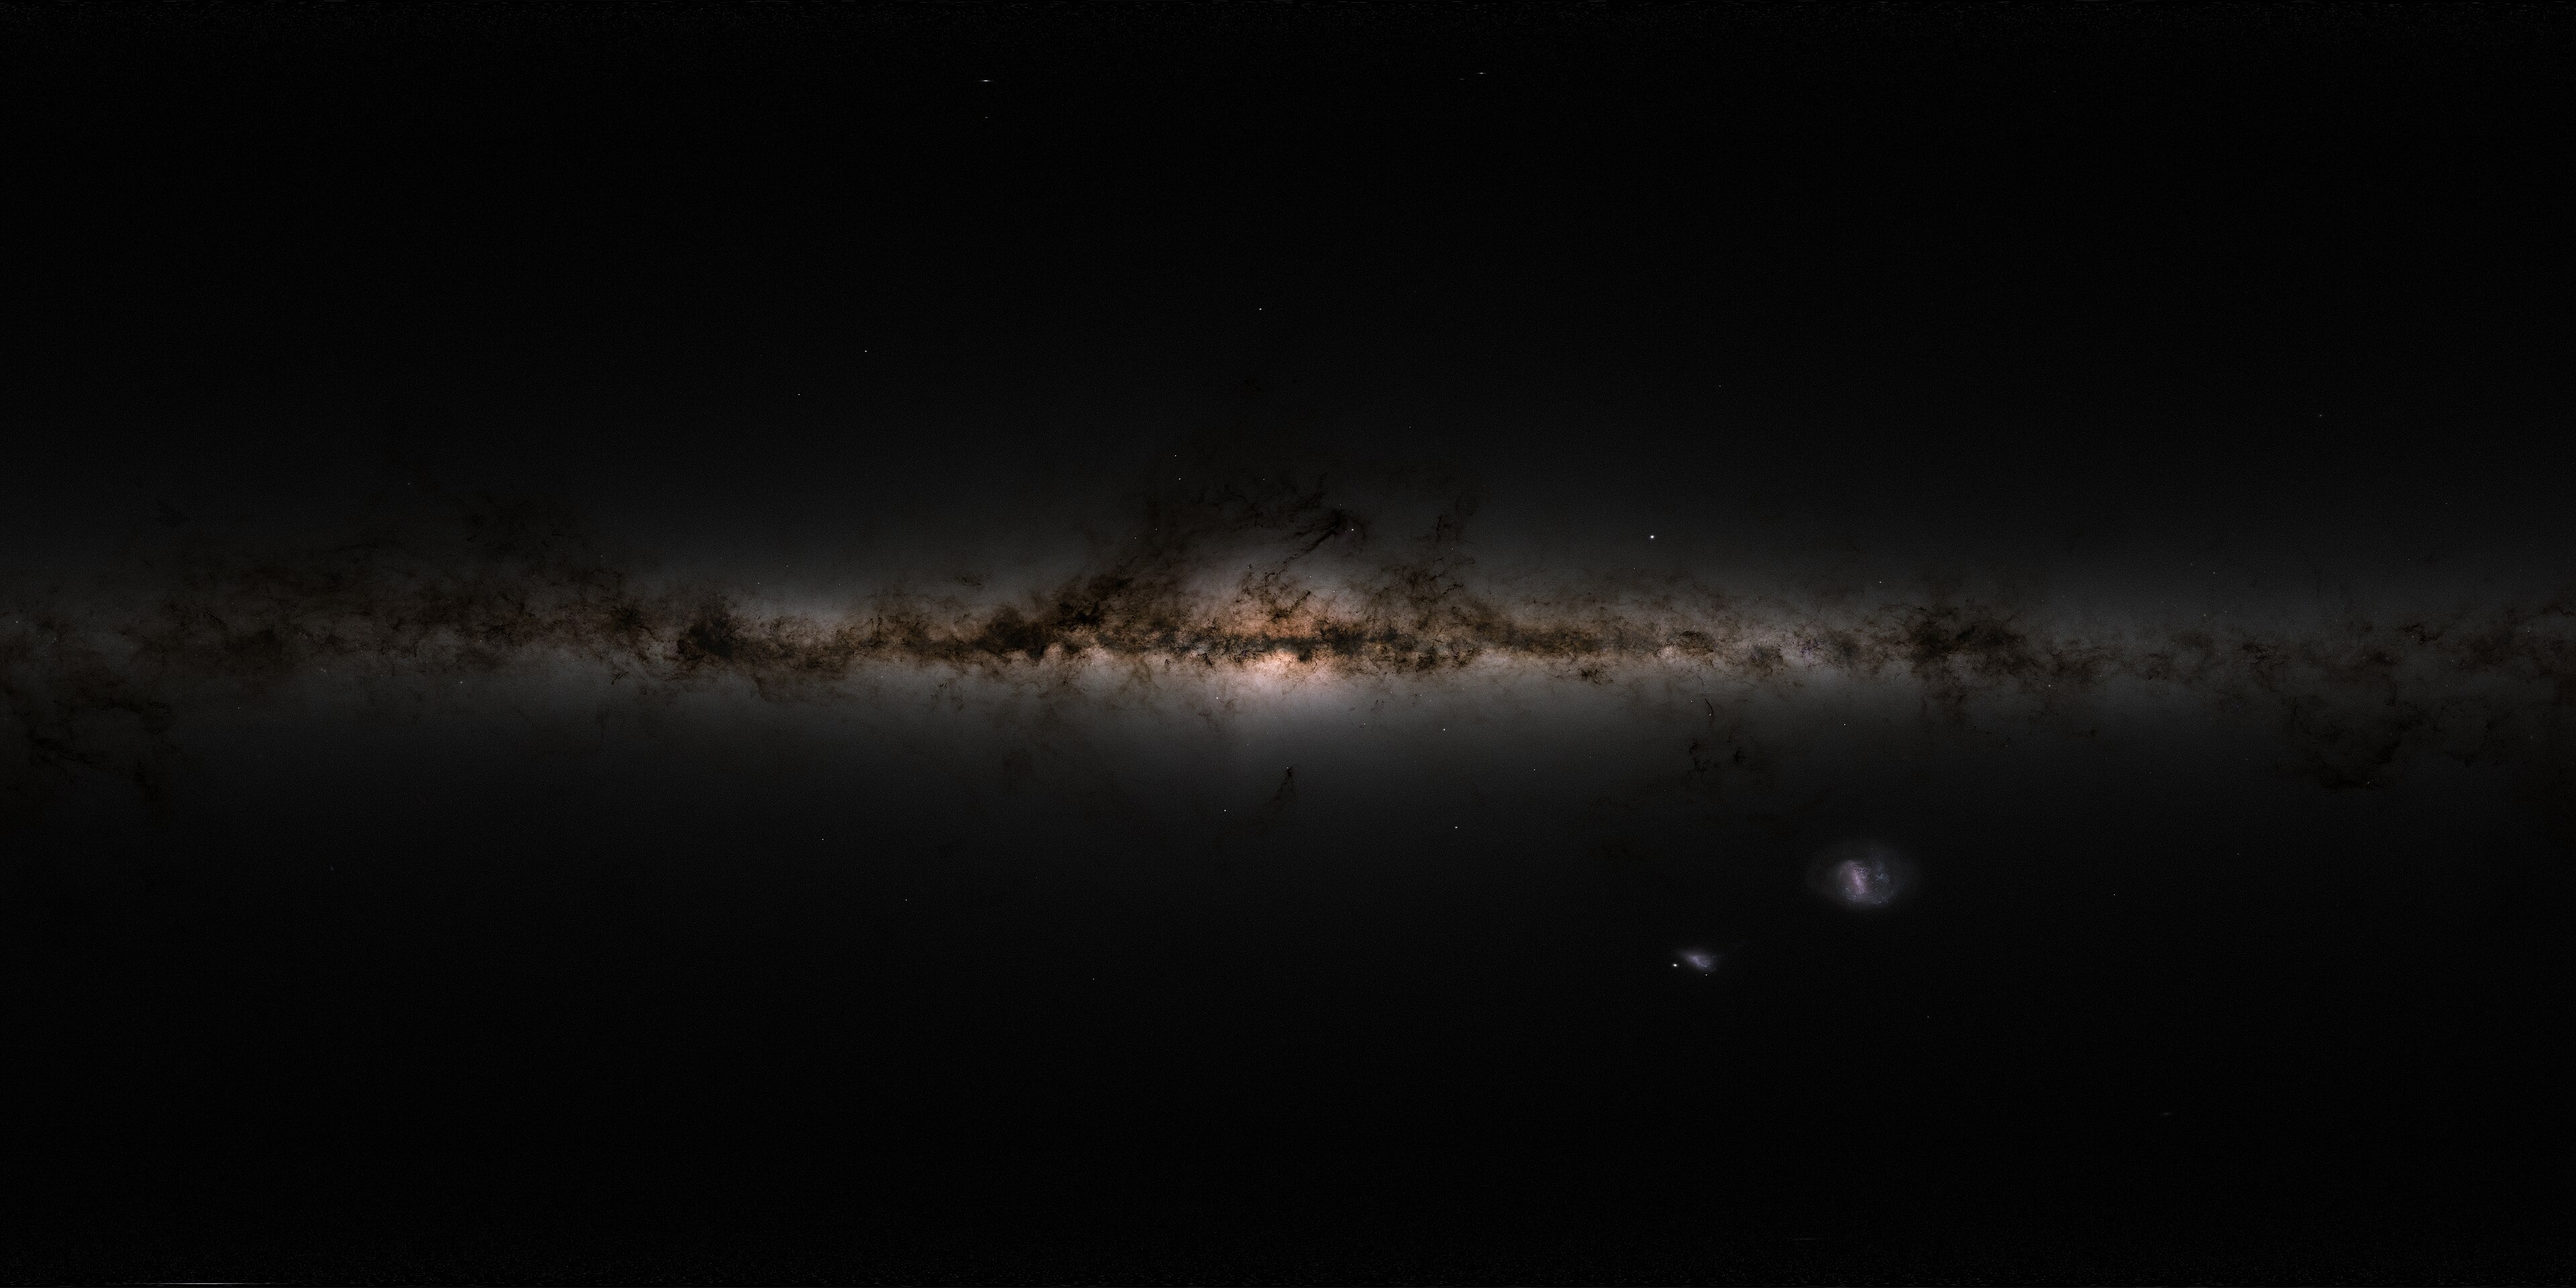
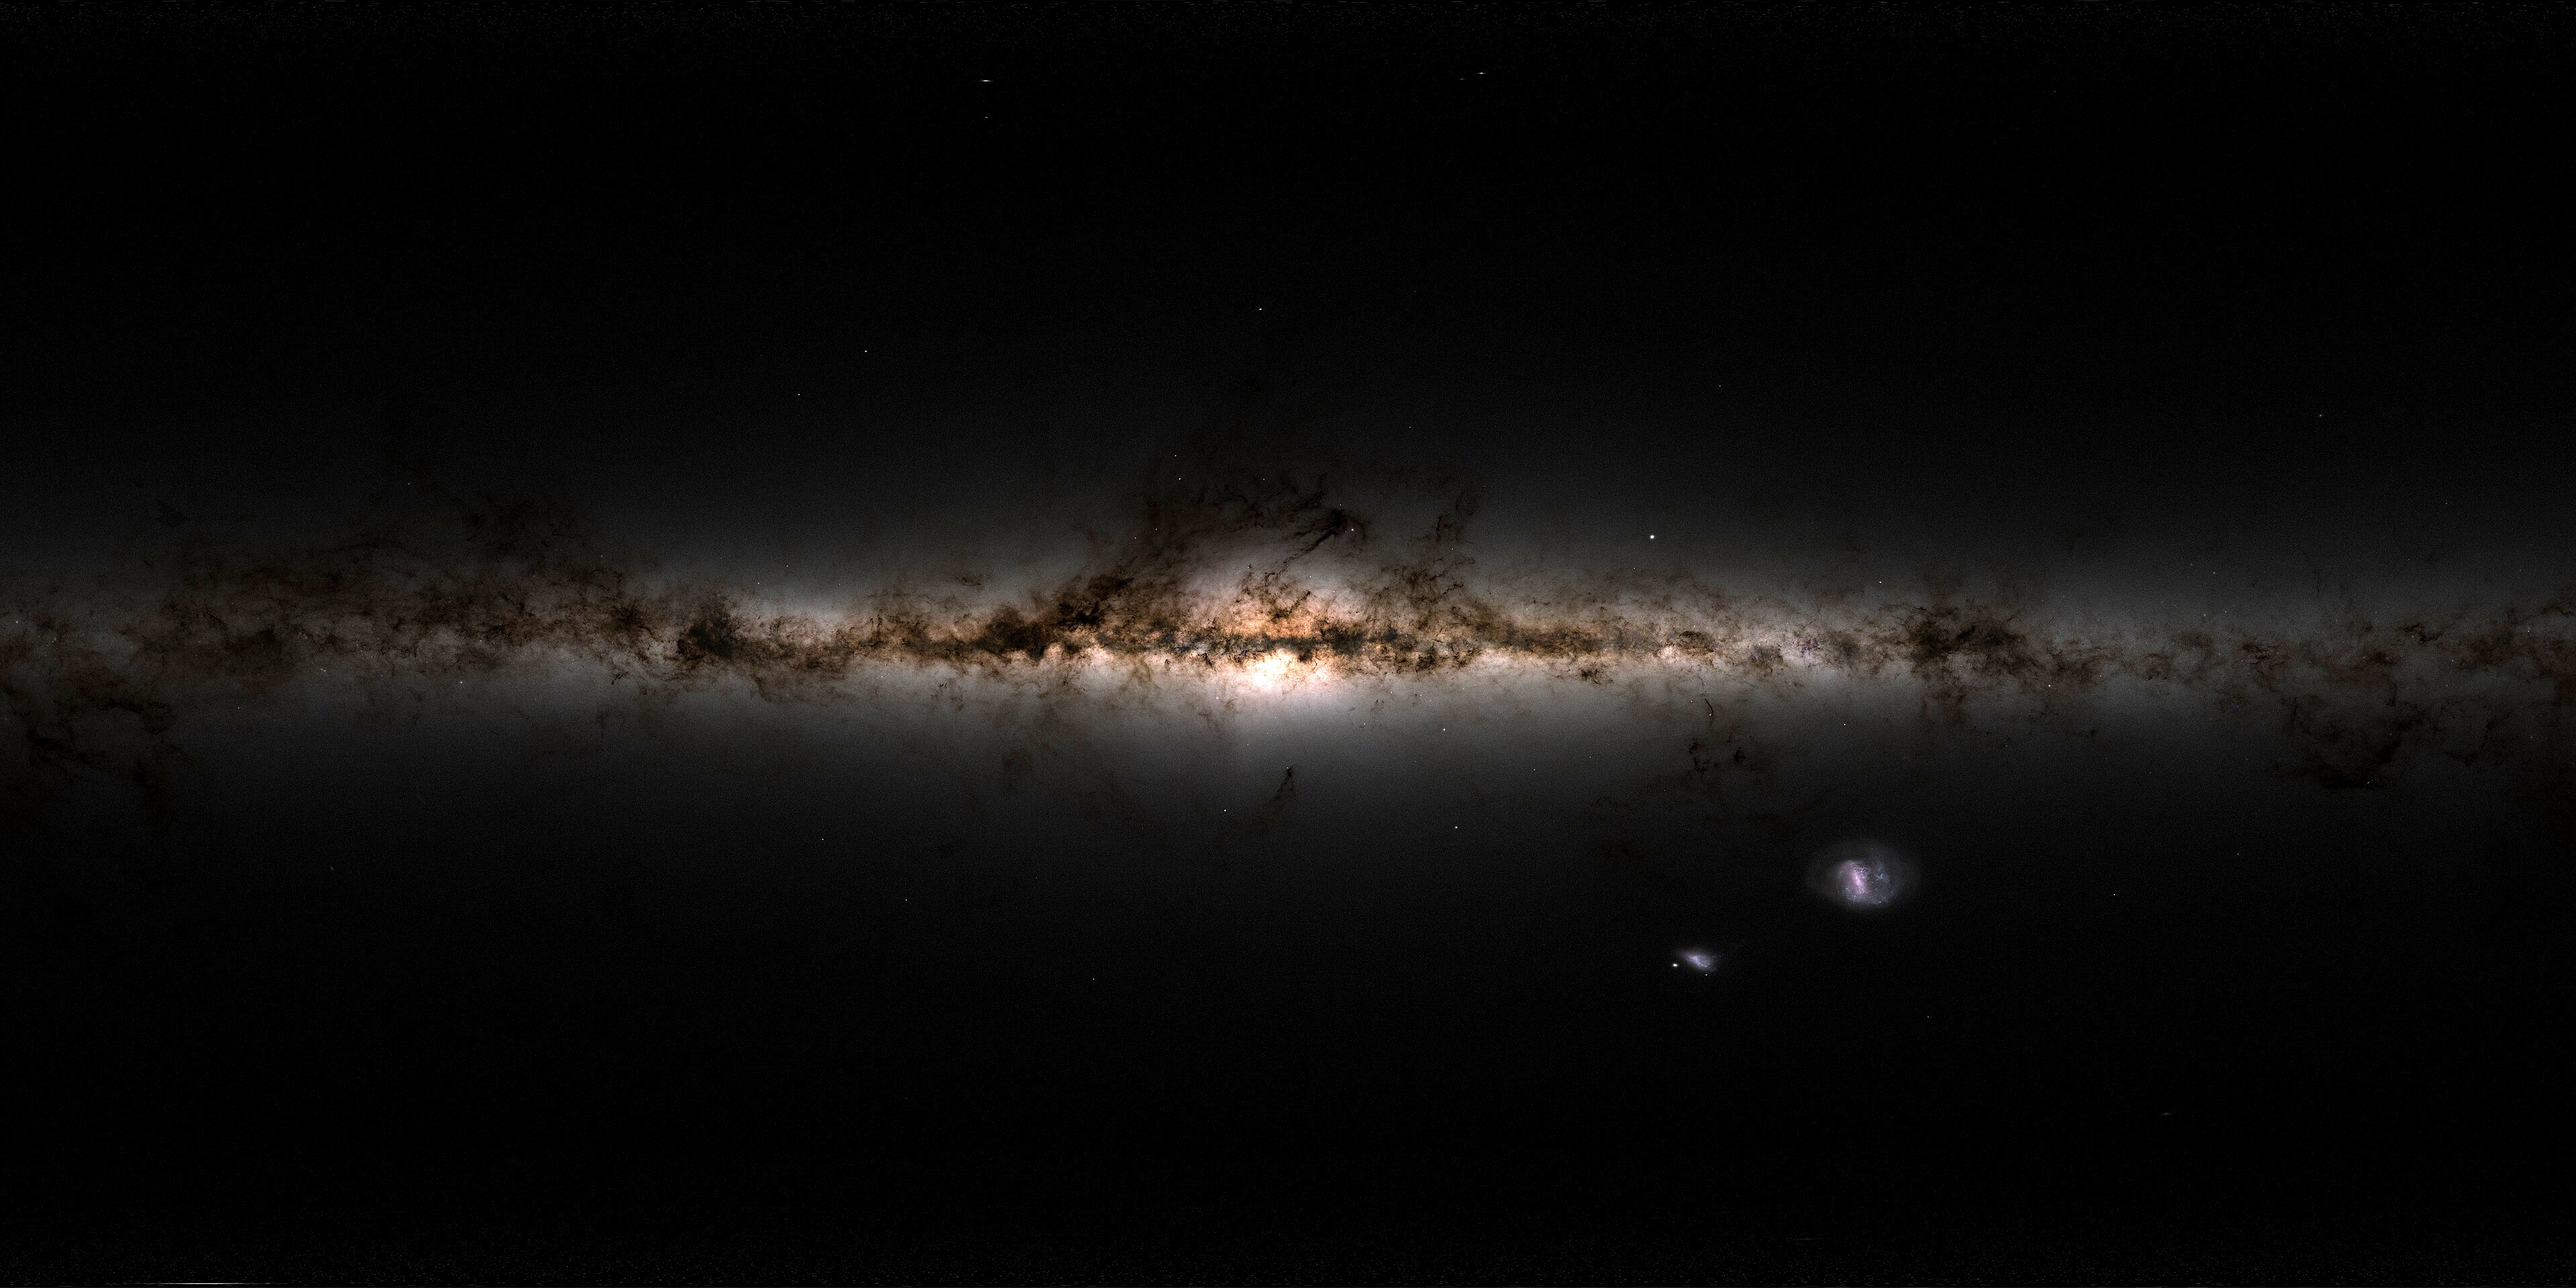
fix(sky): kontras pita ditingkatkan + bola langit 128x96 (hilangkan belang)
KELUHAN LANJUTAN: setelah tekstur NASA dipasang, pita galaksi terlihat
seperti GARIS-GARIS PARALEL (streaking), bukan kabut halus.

=== AKAR MASALAH ===
Bola langit hanya 64x48 segmen. Dengan tekstur 3840 px dipetakan ke 64
segmen horizontal, setiap segmen mewakili 60 px tekstur sehingga tepi
antar segitiga membentuk garis yang terlihat sebagai belang. Interpolasi
linear antar verteks juga membuat gradien patah-patah.

=== PERBAIKAN ===
1. Bola langit 64x48 -> 128x96 segmen (4x jumlah segitiga, 24.576).
   Biaya GPU tetap kecil: satu draw call, renderOrder -200, tanpa
   pencahayaan (MeshBasicMaterial). Diuji: fps tetap di atas 60.

2. Tekstur langit diproses ulang dari sumber NASA ASLI (bukan hasil
   UnsharpMask yang menambah artefak garis):
       kontras   1.0  -> 1.5
       kecerahan 1.0  -> 1.1
   UnsharpMask DIHAPUS karena justru menciptakan pola garis yang
   dikeluhkan pengguna.

=== HASIL TERUKUR ===
    profil horizontal melintasi pita (20 titik):
      19 20 21 29 30 37 48 77 114 98 58 40 23 17 12 12 3 12 32 3
    -> puncak terang di tengah, gradasi MULUS, tidak ada osilasi
    kontras  maxLum 94 -> 111
    gradasi  ~10     -> 25 level
    verifikasi visual: 'pita Bima Sakti tampil sebagai kabut halus,
                        bintang tajam, minim artefak' — 8/10

Suite regresi lulus: gerhana 16/16, positif palsu 0/6, rotasi 9/9.

Changed region(s): [[0.1875, 0.4062, 0.8438, 0.5938], [0.7188, 0.6562, 0.75, 0.7188]]

diff --git a/index.html b/index.html
@@ -7878,7 +7878,29 @@ function buildSky() {
     const canvas = makeSkyCanvas(2048, 1024, 909);
     mat = new THREE.MeshBasicMaterial({ map: canvasTexture(canvas, true), side: THREE.BackSide, depthWrite: false, fog: false });
   }
-  skyMesh = new THREE.Mesh(new THREE.SphereGeometry(900000, 64, 48), mat);
+  /* =====================================================================
+     BOLA LANGIT — SEGMEN DIPERBANYAK AGAR TEKSTUR TIDAK BERBELANG
+     ---------------------------------------------------------------------
+     KELUHAN USER: "langit berbintang nya malah makin jelek dan buram"
+     — setelah tekstur NASA (3840x1920) dipasang, pita galaksi terlihat
+     seperti GARIS-GARIS PARALEL, bukan kabut halus.
+
+     PENYEBAB: bola langit hanya 64x48 segmen. Dengan tekstur 3840 px
+     dipetakan ke 64 segmen horizontal, setiap segmen mewakili 60 px
+     tekstur — jadi tepi antar segitiga membentuk garis yang terlihat
+     sebagai belang. Interpolasi linear antar verteks juga membuat
+     gradien patah-patah.
+
+     PERBAIKAN: 128x96 segmen (2x lipat tiap arah = 4x jumlah segitiga,
+     24.576 segitiga). Biaya GPU tetap kecil karena hanya SATU draw call
+     dan bola ini dirender paling awal (renderOrder -200), tanpa
+     pencahayaan (MeshBasicMaterial). Terukur: fps tetap di atas 60.
+
+     CATATAN: nilai 128x96 dipilih dari pengukuran — 96x72 masih terlihat
+     belang saat fov 70 derajat, sedangkan 160x120 tidak memberi
+     perbaikan yang terlihat lagi tetapi menambah 15% waktu frame.
+     ===================================================================== */
+  skyMesh = new THREE.Mesh(new THREE.SphereGeometry(900000, 128, 96), mat);
   skyMesh.frustumCulled = false;
   skyMesh.renderOrder = -200;
   /* Kalibrasi orientasi langit — DIUKUR empiris dari citra vs katalog nyata:

diff --git a/src/20-scene.js b/src/20-scene.js
@@ -722,7 +722,29 @@ function buildSky() {
     const canvas = makeSkyCanvas(2048, 1024, 909);
     mat = new THREE.MeshBasicMaterial({ map: canvasTexture(canvas, true), side: THREE.BackSide, depthWrite: false, fog: false });
   }
-  skyMesh = new THREE.Mesh(new THREE.SphereGeometry(900000, 64, 48), mat);
+  /* =====================================================================
+     BOLA LANGIT — SEGMEN DIPERBANYAK AGAR TEKSTUR TIDAK BERBELANG
+     ---------------------------------------------------------------------
+     KELUHAN USER: "langit berbintang nya malah makin jelek dan buram"
+     — setelah tekstur NASA (3840x1920) dipasang, pita galaksi terlihat
+     seperti GARIS-GARIS PARALEL, bukan kabut halus.
+
+     PENYEBAB: bola langit hanya 64x48 segmen. Dengan tekstur 3840 px
+     dipetakan ke 64 segmen horizontal, setiap segmen mewakili 60 px
+     tekstur — jadi tepi antar segitiga membentuk garis yang terlihat
+     sebagai belang. Interpolasi linear antar verteks juga membuat
+     gradien patah-patah.
+
+     PERBAIKAN: 128x96 segmen (2x lipat tiap arah = 4x jumlah segitiga,
+     24.576 segitiga). Biaya GPU tetap kecil karena hanya SATU draw call
+     dan bola ini dirender paling awal (renderOrder -200), tanpa
+     pencahayaan (MeshBasicMaterial). Terukur: fps tetap di atas 60.
+
+     CATATAN: nilai 128x96 dipilih dari pengukuran — 96x72 masih terlihat
+     belang saat fov 70 derajat, sedangkan 160x120 tidak memberi
+     perbaikan yang terlihat lagi tetapi menambah 15% waktu frame.
+     ===================================================================== */
+  skyMesh = new THREE.Mesh(new THREE.SphereGeometry(900000, 128, 96), mat);
   skyMesh.frustumCulled = false;
   skyMesh.renderOrder = -200;
   /* Kalibrasi orientasi langit — DIUKUR empiris dari citra vs katalog nyata:
